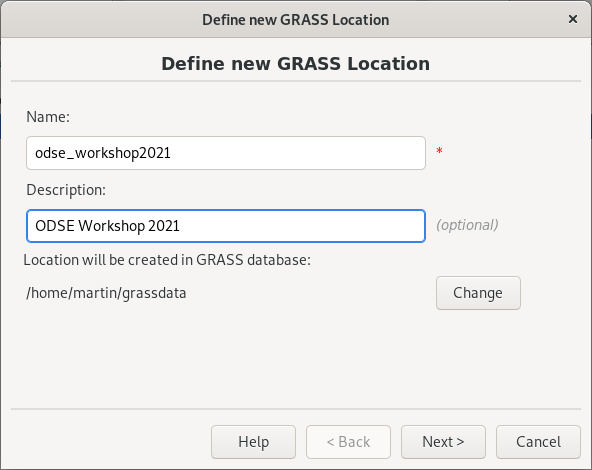
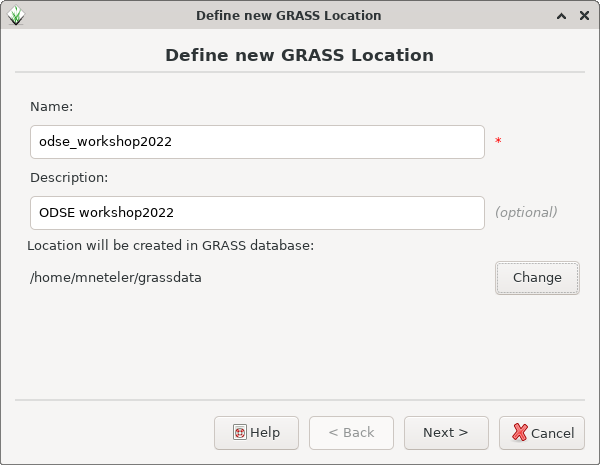
GRASS GIS [Part 1] some 2022 updates

diff --git a/grass_gis/sphinx_template/conf_base.py b/grass_gis/sphinx_template/conf_base.py
@@ -40,16 +40,16 @@ if version_info[0] <= 1 and version_info[1] < 6:
 else:
     numfig = True
 
-extlinks = {'grasscmd': ('http://grass.osgeo.org/grass78/manuals/%s.html', ''),
-            'grasscmd2': ('http://grass.osgeo.org/grass78/manuals/%s', ''),
-            'grasscmdaddons': ('http://grass.osgeo.org/grass78/manuals/addons/%s.html', ''),
-            'wikipedia': ('http://en.wikipedia.org/wiki/%s', ''),
-            'epsg' : ('http://epsg.io/%s', 'EPSG:'),
-            'grass-script' : ('http://grass.osgeo.org/grass78/manuals/libpython/script.html#script.%s', ''),
-            'pygrass-gis' : ('http://grass.osgeo.org/grass78/manuals/libpython/pygrass.gis.html#pygrass.gis.%s', ''),
-            'pygrass-modules' : ('http://grass.osgeo.org/grass78/manuals/libpython/pygrass.modules.interface.html#pygrass.modules.interface.module.%s', ''),
-            'pygrass-vector' : ('http://grass.osgeo.org/grass78/manuals/libpython/pygrass.vector.html#pygrass.vector.%s', ''),
-            'pygrass-raster' : ('http://grass.osgeo.org/grass78/manuals/libpython/pygrass.raster.html#pygrass.raster.%s', ''),
+extlinks = {'grasscmd': ('https://grass.osgeo.org/grass-stable/manuals/%s.html', ''),
+            'grasscmd2': ('https://grass.osgeo.org/grass-stable/manuals/%s', ''),
+            'grasscmdaddons': ('https://grass.osgeo.org/grass-stable/manuals/addons/%s.html', ''),
+            'wikipedia': ('https://en.wikipedia.org/wiki/%s', ''),
+            'epsg' : ('https://epsg.io/%s', 'EPSG:'),
+            'grass-script' : ('https://grass.osgeo.org/grass-stable/manuals/libpython/script.html#script.%s', ''),
+            'pygrass-gis' : ('https://grass.osgeo.org/grass-stable/manuals/libpython/pygrass.gis.html#pygrass.gis.%s', ''),
+            'pygrass-modules' : ('https://grass.osgeo.org/grass-stable/manuals/libpython/pygrass.modules.interface.html#pygrass.modules.interface.module.%s', ''),
+            'pygrass-vector' : ('https://grass.osgeo.org/grass-stable/manuals/libpython/pygrass.vector.html#pygrass.vector.%s', ''),
+            'pygrass-raster' : ('https://grass.osgeo.org/grass-stable/manuals/libpython/pygrass.raster.html#pygrass.raster.%s', ''),
             'python3': ('https://docs.python.org/3/library/%s.html', ''),
             }
 

diff --git a/grass_gis/units/02.rst b/grass_gis/units/02.rst
@@ -6,42 +6,28 @@ Starting a GRASS session requires basic knowledge about the software
 itself. GRASS motivates users to organize their data from an early
 beginning. GRASS uses a consistent structure of so-called
 **locations** and **mapsets** to organize its data. This has not 
-changed in GRASS 8.
+changed in GRASS 8. You may consider the structure as project /
+subproject order of disk folders.
 
 .. _location-mapset-section:
 
 The GRASS data structure has three levels:
 
-#. **Database directory.** A directory on local or network disc which
+#. **Database directory.** A directory on local disk or network drive which
    contains all data accessed by GRASS. It's usually a directory called
    :file:`grassdata` located in users' home directory. 
 
 #. **Location**. All geodata stored within one location must have the
    same spatial coordinate system (GRASS doesn't support on-the-fly
-   projection for several reasons).
+   projection for several reasons but offers it during data import).
 
 #. **Mapset**. Contains task-related data within one project. Helps
    organizing data into logical groups or to separate parallel work of
    different users on the same project.
 
-.. note:: In GRASS 7, a startup screen (:numref:`startup7`) appeared 
-   before entering a session. The user had to define the working
-   environment in which the GRASS session started. This step 
-   was required to enter GRASS. Such an approach is not so
-   common. Applications like Esri ArcGIS or QGIS just start. Users
-   load different data from various sources in different
-   projections and start working on their project.
-
-   .. _startup7:
-   
-   .. figure:: ../images/units/02/startup-0.png
-
-      GRASS GIS startup screen in version 7.
-
-   
-Obstacles (especially for newcomers) related to the startup screen have
-been reduced in GRASS 8. The startup screen has been
-replaced by a completely new mechanism. On the first launch, GRASS 8 
+Obstacles (especially for newcomers) related to the old GRASS GIS 7
+startup screen have been reduced in GRASS 8. The old startup screen has
+been replaced by a completely new mechanism. On the first launch, GRASS 8
 sets up the *database directory* automatically and launches GUI in a
 default location *World LatLong WGS84*. Also, a sample *world* vector
 layer (in GRASS terminology *vector map*) is shown.
@@ -55,7 +41,7 @@ windows, see :numref:`startup8`.
 
 .. figure:: ../images/units/02/grass8-start.png
    :class: large
-           
+
    GRASS GIS 8 on startup.
 
 .. tip:: If GUI crashes, it can be started again by :grasscmd:`g.gui`
@@ -65,6 +51,21 @@ GRASS GUI guides users by means of tooltips as shown in
 :numref:`startup8`. The default location is not designed for real
 work. The next step is usually to create new "project(s)" (in GRASS
 terminology *a location*) with user-defined spatial coordinate systems.
+
+If interested in a common single-window GUI layout as shown in
+:numref:`startup8_single`,  change the GUI setting in the menu
+(Settings > Preferences > Workspace settings > General tab > Use single
+window mode. Note that it requires a GUI session restart to become active.
+
+.. _startup8_single:
+
+.. figure:: ../images/units/02/grass82_single_window_startup.png
+   :class: large
+
+   GRASS GIS 8 on startup in single-window mode. To switch, change the
+   settings in the menu (Settings > Preferences > Workspace settings >
+   General > Use single window mode (requires GUI session restart).
+
 
 .. _create-location:
 
@@ -76,8 +77,8 @@ By clicking on :item:`Create new Location` button in the tooltip (or by
 location can be easily created using :wikipedia:`EPSG` codes or
 user-defined geodata.
 
-In the first page of the location wizard, the location name is defined. 
-Optionally, also a short description can be added.
+In the first page of the location wizard, the location name is defined, e.g.
+`odse_workshop2022`. Optionally, also a short description can be added.
 
 .. figure:: ../images/units/02/create-location-0.png
 

diff --git a/grass_gis/units/01.rst b/grass_gis/units/01.rst
@@ -12,7 +12,8 @@ companies. It is a founding member of the Open Source Geospatial
 Foundation (`OSGeo <http://www.osgeo.org>`__).
 
 Originally developed by the U.S. Army Construction Engineering
-Research Laboratories (USA-CERL, 1982-1995, see history of GRASS
+Research Laboratories (USA-CERL, 1982-1995, see
+`history <https://grass.osgeo.org/about/history/>`__ of GRASS GIS
 1.0-4.2 and 5beta), a branch of the US Army Corp of Engineers, as a
 tool for land management and environmental planning by the military,
 GRASS GIS has evolved into a powerful utility with a wide range of
@@ -42,11 +43,11 @@ In a nutshell
 **Disadvantages** (turning out to be advantages in some cases):
 
 * open-source ;-)
-* complicated for newcomers (we solved it in GRASS 8 ;-))
+* used to be complicated for newcomers: we solved it in GRASS 8.2 ;-))
 * native data format (requires importing data, be aware of the possibility
   of linking external formats)
 * vector topology (confusing for GIS beginners, sometimes tricky to
-  import broken GIS data)
+  import broken GIS data which GRASS tends to repair)
 
 **When to use GRASS GIS?**
 
@@ -81,7 +82,7 @@ Example for Debian/Ubuntu OS:
    sudo apt install grass
 
 .. tip:: More recent versions of GRASS are available via `UbuntuGIS PPA
-   <https://launchpad.net/~ubuntugis/+archive/ubuntu/ubuntugis-unstable>`__.
+   <https://launchpad.net/~ubuntugis/+archive/ubuntu/ubuntugis-experimental>`__.
    
 MS Windows
 ^^^^^^^^^^
@@ -93,7 +94,7 @@ There are basically two options:
 #. OSGeo4W network installer
 #. traditional standalone installer
 
-Choose 64bit version if you don't care.
+Choose the 64bit version.
 
 .. tip:: GRASS GIS is also part of the `QGIS installer on Windows
    <https://qgis.org/en/site/forusers/download.html>`__. So if QGIS is

diff --git a/grass_gis/units/05.rst b/grass_gis/units/05.rst
@@ -43,8 +43,8 @@ Let's change the computational region interactively from the Map Display.
    minimum: 181
    maximum: 1347   
 
-Computing DTM derivates
------------------------
+Computing DTM derivatives
+-------------------------
 
 Let's set up the computational region back to our :ref:`area of interest
 <aoi>`. Computation of slope or aspect from DTM is a common task
@@ -117,8 +117,8 @@ Corresponding command:
            
    Result of map algebra command.
 
-Automatization
---------------
+Automation
+----------
 
 Graphical Modeler
 ~~~~~~~~~~~~~~~~~
